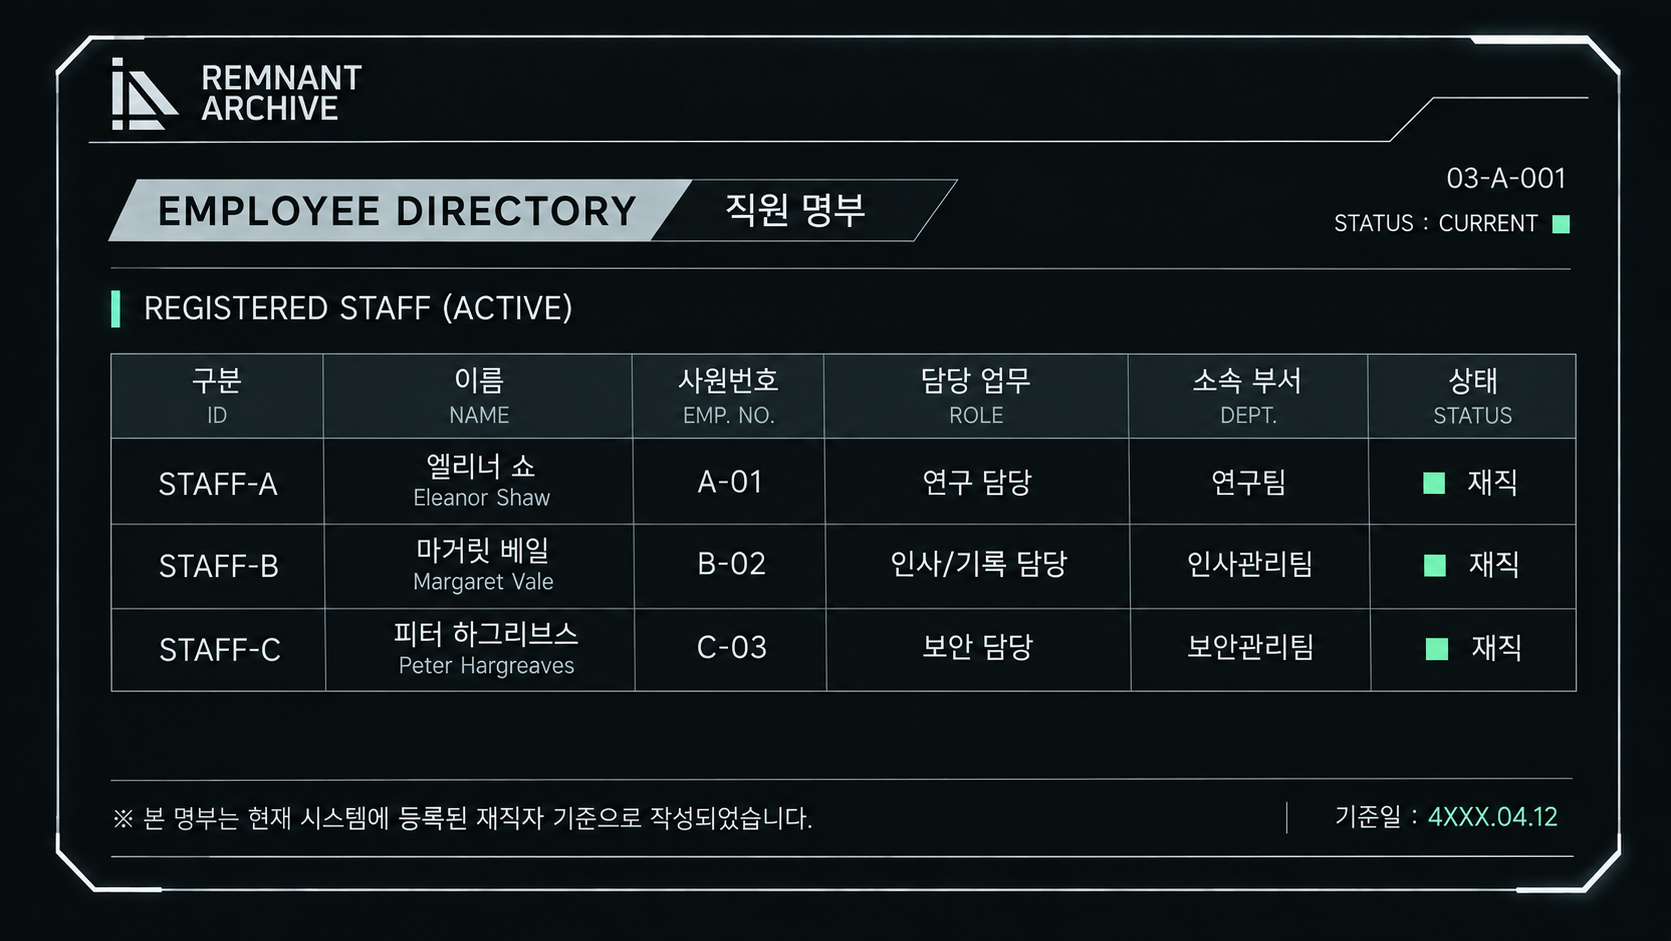
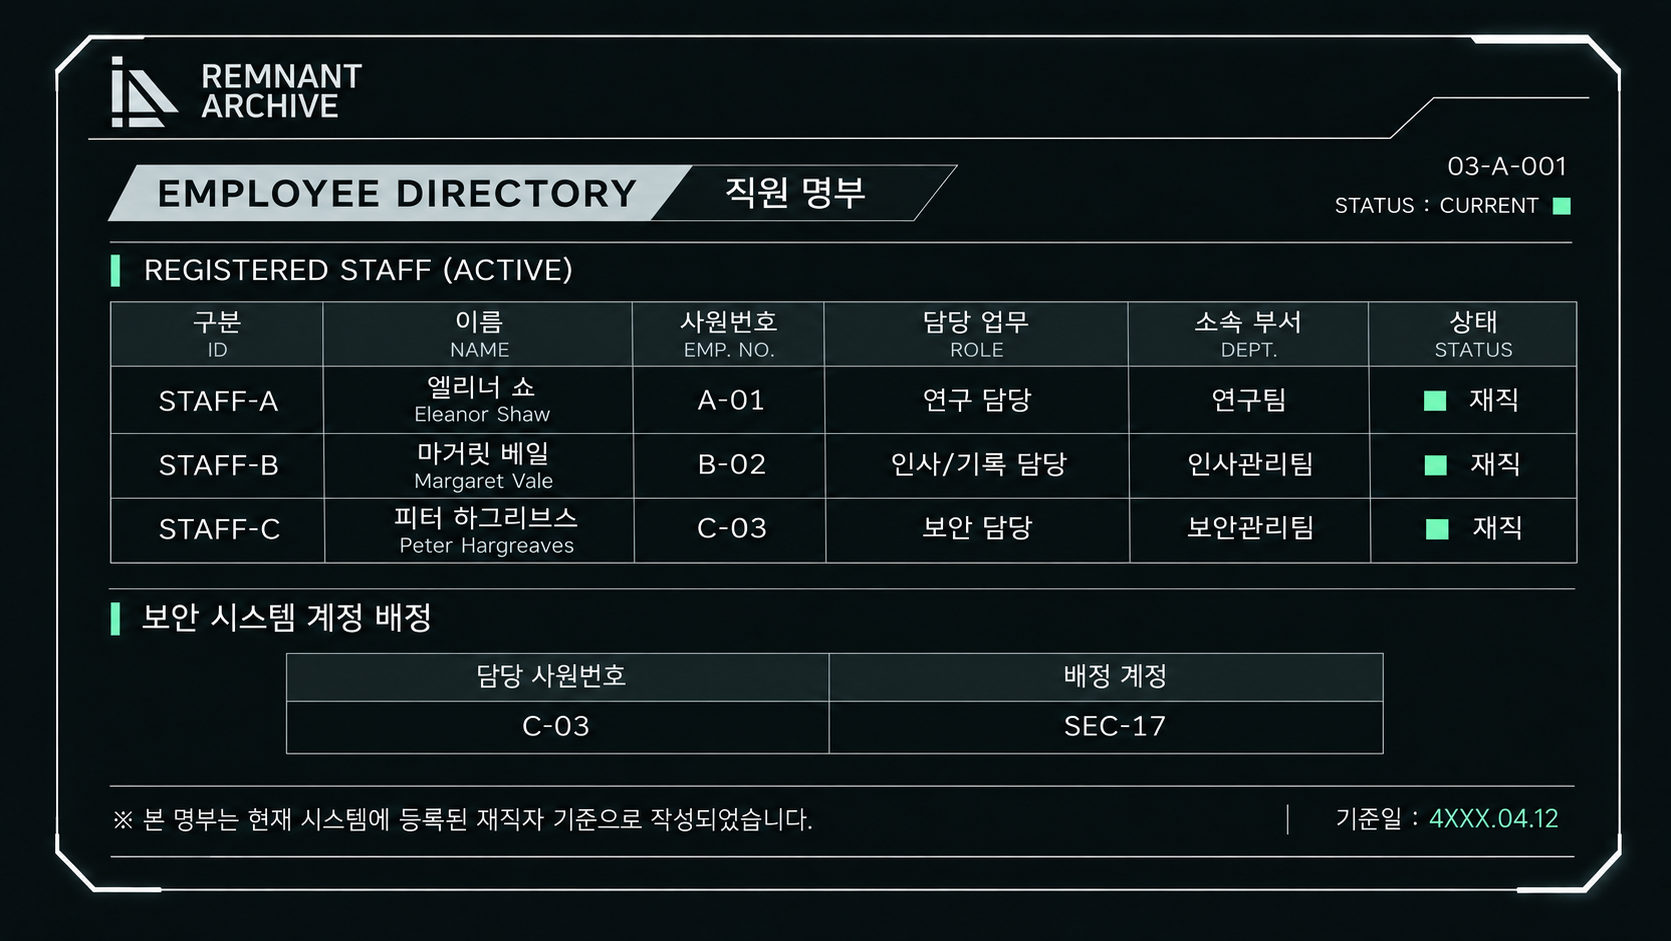
03-A 직원 명부 교체 (보안 시스템 계정 배정 표 추가)
- clue-03a.html(원본·게임 복사본): '보안 시스템 계정 배정' 표 추가 (C-03 → SEC-17)
- 제작_에셋/clue-03a.png 교체 (게임에서는 쓰지 않음)
- ASSET_VER 9: 브라우저에 남은 예전 03-A 문서 대신 새 문서를 열도록

diff --git a/shinip/assets/clue/clue-03a.html b/shinip/assets/clue/clue-03a.html
@@ -8,6 +8,8 @@
   <style>
     .directory-table { overflow-x: auto; }
     .directory-table table { min-width: 530px; }
+    .directory-accounts { border-top: 1px solid var(--rule); }
+    .directory-accounts table { width: min(100%, 75ch); margin-inline: auto; }
     .directory-active::before {
       display: inline-block;
       width: .65em;
@@ -50,6 +52,17 @@
           </tbody>
         </table>
       </div>
+    </section>
+    <section class="directory-accounts" aria-labelledby="security-accounts">
+      <h2 id="security-accounts">보안 시스템 계정 배정</h2>
+      <table aria-labelledby="security-accounts">
+        <thead>
+          <tr><th scope="col">담당 사원번호</th><th scope="col">배정 계정</th></tr>
+        </thead>
+        <tbody>
+          <tr><th scope="row">C-03</th><td>SEC-17</td></tr>
+        </tbody>
+      </table>
     </section>
     <footer class="ra-footer directory-footer">
       <span>※ 본 명부는 현재 시스템에 등록된 재직자 기준으로 작성되었습니다.</span>

diff --git a/제작_에셋/clue-03a.html b/제작_에셋/clue-03a.html
@@ -8,6 +8,8 @@
   <style>
     .directory-table { overflow-x: auto; }
     .directory-table table { min-width: 530px; }
+    .directory-accounts { border-top: 1px solid var(--rule); }
+    .directory-accounts table { width: min(100%, 75ch); margin-inline: auto; }
     .directory-active::before {
       display: inline-block;
       width: .65em;
@@ -50,6 +52,17 @@
           </tbody>
         </table>
       </div>
+    </section>
+    <section class="directory-accounts" aria-labelledby="security-accounts">
+      <h2 id="security-accounts">보안 시스템 계정 배정</h2>
+      <table aria-labelledby="security-accounts">
+        <thead>
+          <tr><th scope="col">담당 사원번호</th><th scope="col">배정 계정</th></tr>
+        </thead>
+        <tbody>
+          <tr><th scope="row">C-03</th><td>SEC-17</td></tr>
+        </tbody>
+      </table>
     </section>
     <footer class="ra-footer directory-footer">
       <span>※ 본 명부는 현재 시스템에 등록된 재직자 기준으로 작성되었습니다.</span>

diff --git a/shinip/assets/assets.js b/shinip/assets/assets.js
@@ -28,7 +28,7 @@ R01.ASSETS = {
    patches.box: 이미지 안 위치 [왼쪽, 위, 너비, 높이] (%). 이미지에 그려진 글자를 설정에 맞게 덮는다
    patches.img: 글자 대신 이미지(로고)를 덮어 올린다. baseImg·hoverImg가 있으면 img는 늘 보이고, 마우스를 올렸을 때 baseImg가 hoverImg로 바뀐다 (로고 앰블럼) */
 /* 자료 HTML 문서의 버전. 단서 문서(assets/clue/*.html)를 고치면 숫자를 올린다 — 자료 창이 브라우저에 남은 예전 문서 대신 새 문서를 연다 */
-R01.ASSET_VER = '8';
+R01.ASSET_VER = '9';
 R01.CLUE_ASSETS = {
   // 03-A: 직원 명부와 업무 기록을 한 단서의 두 문서로 표시
   '03A': { kind: 'doc', html: 'assets/clue/clue-03a.html', appendix: 'assets/clue/clue-03a-worklog.html' },
